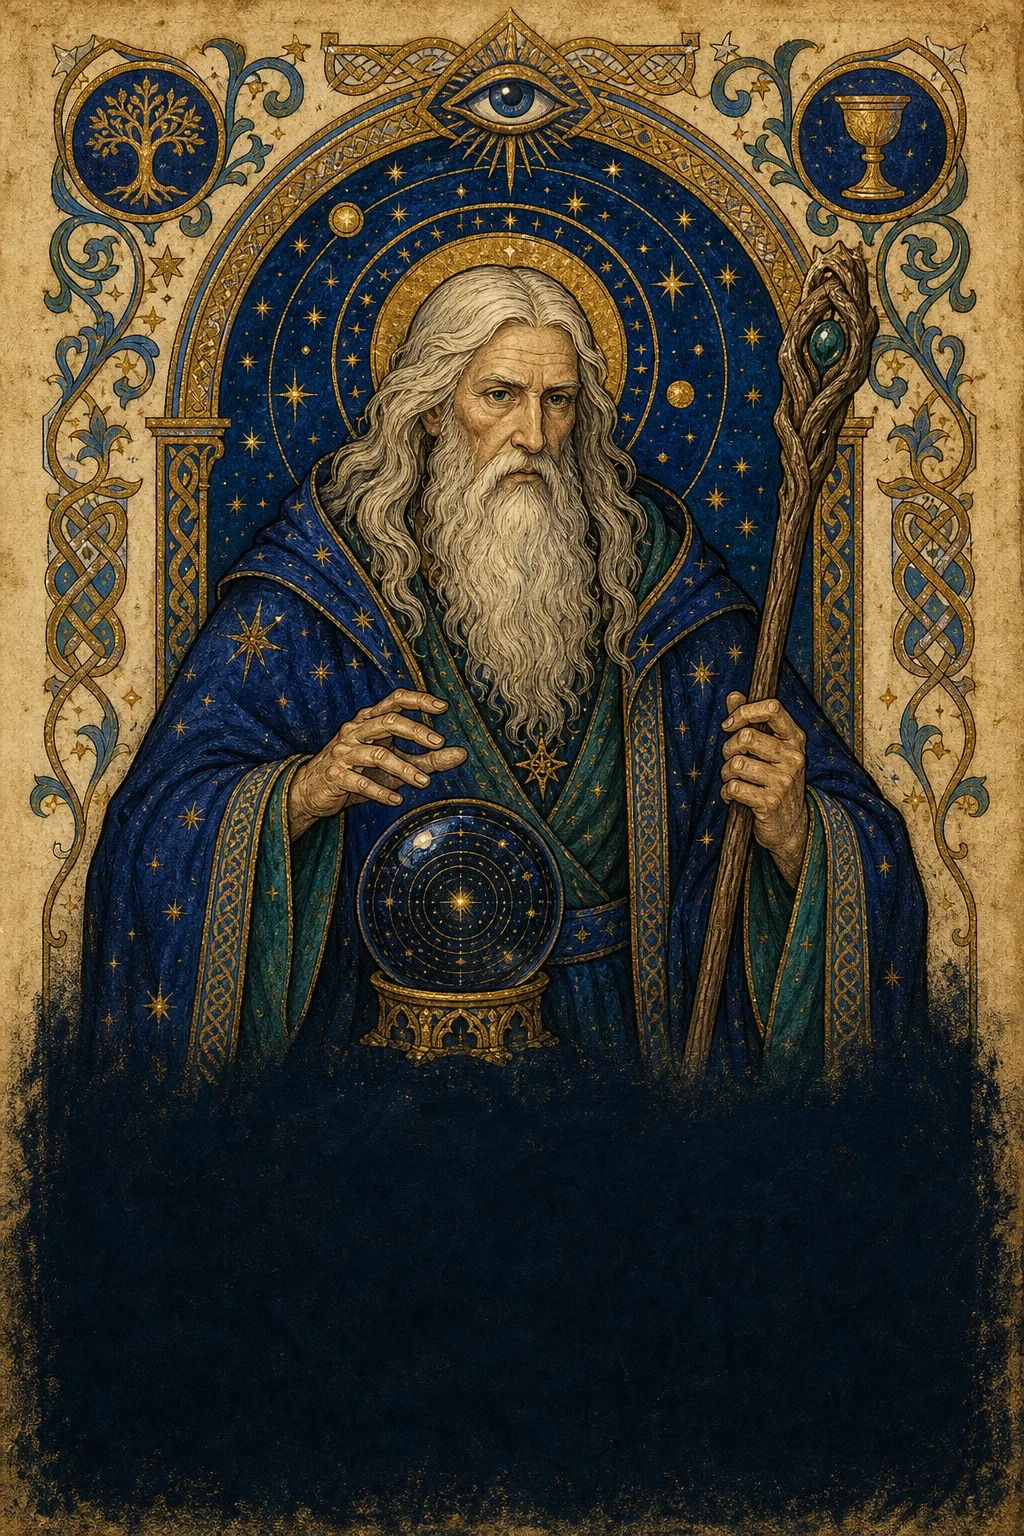
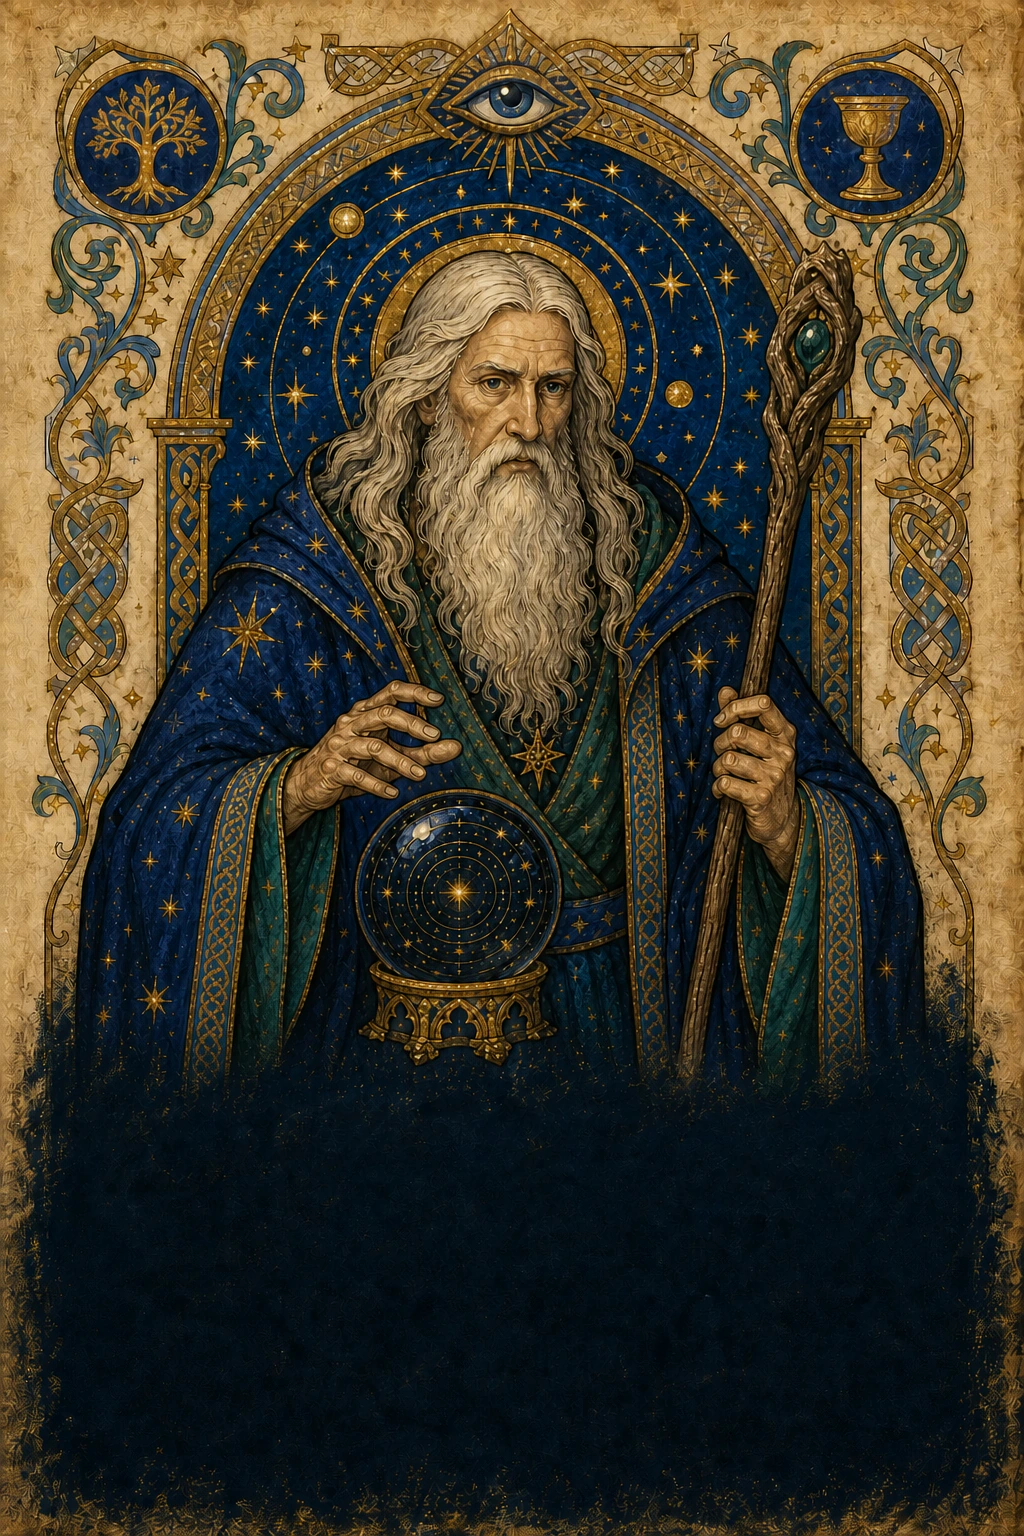
fix(avalon): normalize role artwork proportions

diff --git a/frontend/src/games/avalon/components/RoleSkinPicker.vue b/frontend/src/games/avalon/components/RoleSkinPicker.vue
@@ -136,6 +136,8 @@ onBeforeUnmount(() => window.removeEventListener('keydown', handleEscape))
             :data-alignment="role.alignment"
           >
             <img
+              class="role-skin-artwork"
+              :class="{ 'preserves-frame': role.framing.preserveFrame }"
               :src="role.artwork"
               :alt="`${previewSkin.name}中的${role.name}`"
               :style="{
@@ -143,6 +145,19 @@ onBeforeUnmount(() => window.removeEventListener('keydown', handleEscape))
                 '--role-art-hover-scale': role.framing.scale * 1.025,
                 '--role-art-origin': `${role.framing.originXPercent}% ${role.framing.originYPercent}%`,
               }"
+              draggable="false"
+            />
+            <img
+              v-if="role.framing.preserveFrame"
+              class="role-skin-inner-artwork"
+              :src="role.artwork"
+              :style="{
+                '--role-art-scale': role.framing.scale,
+                '--role-art-hover-scale': role.framing.scale * 1.025,
+                '--role-art-origin': `${role.framing.originXPercent}% ${role.framing.originYPercent}%`,
+              }"
+              alt=""
+              aria-hidden="true"
               draggable="false"
             />
             <div class="role-skin-identity">
@@ -535,22 +550,66 @@ onBeforeUnmount(() => window.removeEventListener('keydown', handleEscape))
     0 0 23px rgba(114, 151, 255, 0.08);
 }
 
-.role-skin-portrait img {
+.role-skin-artwork,
+.role-skin-inner-artwork {
   width: 100%;
   height: 100%;
   object-fit: cover;
+  transition: filter 260ms ease;
+}
+
+.role-skin-artwork {
   transform: scale(var(--role-art-scale, 1));
   transform-origin: var(--role-art-origin, 50% 50%);
   transition: transform 260ms ease, filter 260ms ease;
 }
 
-.role-skin-portrait:hover img {
+.role-skin-artwork.preserves-frame {
+  transform: none;
+}
+
+.role-skin-inner-artwork {
+  position: absolute;
+  z-index: 1;
+  inset: 0;
+  pointer-events: none;
+  transform: scale(var(--role-art-scale, 1));
+  transform-origin: var(--role-art-origin, 50% 50%);
+  -webkit-mask-image: radial-gradient(
+    ellipse 38% 42% at 50% 42%,
+    #000 0 75%,
+    rgba(0, 0, 0, 0.76) 84%,
+    transparent 100%
+  );
+  mask-image: radial-gradient(
+    ellipse 38% 42% at 50% 42%,
+    #000 0 75%,
+    rgba(0, 0, 0, 0.76) 84%,
+    transparent 100%
+  );
+  transition: transform 260ms ease, filter 260ms ease;
+}
+
+.role-skin-portrait:hover .role-skin-artwork,
+.role-skin-portrait:hover .role-skin-inner-artwork {
   filter: brightness(1.06);
+}
+
+.role-skin-portrait:hover .role-skin-artwork {
+  transform: scale(var(--role-art-hover-scale, 1.025));
+}
+
+.role-skin-portrait:hover .role-skin-artwork.preserves-frame {
+  transform: none;
+}
+
+.role-skin-portrait:hover .role-skin-inner-artwork {
   transform: scale(var(--role-art-hover-scale, 1.025));
 }
 
 .role-skin-identity {
   position: absolute;
+  z-index: 2;
   inset: auto 0 0;
   display: grid;
   justify-items: center;

diff --git a/frontend/src/games/avalon/components/SecretCard.vue b/frontend/src/games/avalon/components/SecretCard.vue
@@ -75,6 +75,18 @@ function hide() {
         <img
           v-if="artwork"
           class="secret-card__art"
+          :class="{ 'preserves-frame': artworkFraming.preserveFrame }"
+          :src="artwork"
+          :style="{
+            '--role-art-scale': artworkFraming.scale,
+            '--role-art-origin': `${artworkFraming.originXPercent}% ${artworkFraming.originYPercent}%`,
+          }"
+          alt=""
+          aria-hidden="true"
+        />
+        <img
+          v-if="artwork && artworkFraming.preserveFrame"
+          class="secret-card__inner-art"
           :src="artwork"
           :style="{
             '--role-art-scale': artworkFraming.scale,
@@ -138,6 +150,7 @@ function hide() {
 }
 
 .secret-card__art,
+.secret-card__inner-art,
 .secret-card__shade {
   position: absolute;
   inset: 0;
@@ -150,6 +163,30 @@ function hide() {
   object-fit: cover;
   transform: scale(var(--role-art-scale, 1));
   transform-origin: var(--role-art-origin, 50% 50%);
+}
+
+.secret-card__art.preserves-frame {
+  transform: none;
+}
+
+.secret-card__inner-art {
+  z-index: 0;
+  object-fit: cover;
+  pointer-events: none;
+  transform: scale(var(--role-art-scale, 1));
+  transform-origin: var(--role-art-origin, 50% 50%);
+  -webkit-mask-image: radial-gradient(
+    ellipse 38% 42% at 50% 42%,
+    #000 0 75%,
+    rgba(0, 0, 0, 0.76) 84%,
+    transparent 100%
+  );
+  mask-image: radial-gradient(
+    ellipse 38% 42% at 50% 42%,
+    #000 0 75%,
+    rgba(0, 0, 0, 0.76) 84%,
+    transparent 100%
+  );
 }
 
 .secret-card__shade {

diff --git a/frontend/src/games/avalon/roleSkins.test.ts b/frontend/src/games/avalon/roleSkins.test.ts
@@ -4,13 +4,38 @@ import {
 } from './roleSkins'
 
 describe('Avalon role skin artwork framing', () => {
-  it('keeps the established ultimate-skin hero cards unchanged', () => {
+  it('brings the smaller classic Merlin portrait up to the base-set scale', () => {
+    expect(roleArtworkFraming('merlin', 'classic-tabletop')).toEqual({
+      scale: 1.1,
+      originXPercent: 50,
+      originYPercent: 36,
+    })
+    expect(roleArtworkFraming('percival', 'classic-tabletop').scale).toBe(1)
+  })
+
+  it('finishes the restrained royal-codex Merlin composition correction', () => {
+    expect(roleArtworkFraming('merlin', 'royal-codex')).toEqual({
+      scale: 1.16,
+      originXPercent: 50,
+      originYPercent: 50,
+      preserveFrame: true,
+    })
+    expect(roleArtworkFraming('percival', 'royal-codex').scale).toBe(1)
+  })
+
+  it('keeps the established ultimate heroes unchanged and corrects the oversized Assassin', () => {
     expect(roleArtworkFraming('merlin', 'grail-myth')).toEqual({
       scale: 1,
       originXPercent: 50,
       originYPercent: 50,
     })
-    expect(roleArtworkFraming('assassin', 'grail-myth').scale).toBe(1)
+    expect(roleArtworkFraming('percival', 'grail-myth').scale).toBe(1)
+    expect(roleArtworkFraming('loyal-servant', 'grail-myth').scale).toBe(1)
+    expect(roleArtworkFraming('assassin', 'grail-myth')).toEqual({
+      scale: 1.18,
+      originXPercent: 50,
+      originYPercent: 60,
+    })
   })
 
   it('brings the more distant ultimate-skin portraits closer', () => {

diff --git a/frontend/src/games/avalon/components/RoleSkinPicker.test.ts b/frontend/src/games/avalon/components/RoleSkinPicker.test.ts
@@ -41,10 +41,31 @@ describe('RoleSkinPicker', () => {
     expect(
       modal.get('[data-role="morgana"] img').attributes('style'),
     ).toContain('--role-art-scale: 1.1')
+    expect(
+      modal.get('[data-role="assassin"] img').attributes('style'),
+    ).toContain('--role-art-scale: 1.18')
 
     await modal.get('.role-skin-use-button').trigger('click')
 
     expect(wrapper.emitted('update:modelValue')).toEqual([['grail-myth']])
     expect(wrapper.find('.role-skin-modal').exists()).toBe(false)
+  })
+
+  it('keeps the royal-codex frame intact while scaling Merlin inside it', async () => {
+    const wrapper = mount(RoleSkinPicker, {
+      props: { modelValue: 'classic-tabletop' },
+      global: { stubs: { Teleport: true } },
+    })
+
+    await wrapper
+      .get('button[data-role-skin="royal-codex"]')
+      .trigger('click')
+
+    const merlin = wrapper.get('[data-role="merlin"]')
+    expect(merlin.find('.role-skin-artwork.preserves-frame').exists()).toBe(true)
+    expect(merlin.find('.role-skin-inner-artwork').exists()).toBe(true)
+    expect(
+      merlin.get('.role-skin-inner-artwork').attributes('style'),
+    ).toContain('--role-art-scale: 1.16')
   })
 })

diff --git a/frontend/src/games/avalon/roleSkins.ts b/frontend/src/games/avalon/roleSkins.ts
@@ -77,6 +77,7 @@ export interface RoleArtworkFraming {
   scale: number
   originXPercent: number
   originYPercent: number
+  preserveFrame?: boolean
 }
 
 export const ROLE_SKIN_STORAGE_KEY = 'avalon:role-skin'
@@ -188,7 +189,19 @@ const DEFAULT_ROLE_ARTWORK_FRAMING: RoleArtworkFraming = {
 const ROLE_ARTWORK_FRAMING: Partial<
   Record<RoleSkinId, Partial<Record<AvalonRoleCode, RoleArtworkFraming>>>
 > = {
+  'classic-tabletop': {
+    merlin: { scale: 1.1, originXPercent: 50, originYPercent: 36 },
+  },
+  'royal-codex': {
+    merlin: {
+      scale: 1.16,
+      originXPercent: 50,
+      originYPercent: 50,
+      preserveFrame: true,
+    },
+  },
   'grail-myth': {
+    assassin: { scale: 1.18, originXPercent: 50, originYPercent: 60 },
     morgana: { scale: 1.1, originXPercent: 50, originYPercent: 29 },
     mordred: { scale: 1.1, originXPercent: 50, originYPercent: 27 },
     oberon: { scale: 1.08, originXPercent: 50, originYPercent: 28 },

diff --git a/frontend/src/games/avalon/components/SecretCard.test.ts b/frontend/src/games/avalon/components/SecretCard.test.ts
@@ -59,4 +59,22 @@ describe('SecretCard', () => {
     expect(artwork.attributes('style')).toContain('--role-art-scale: 1.1')
     expect(artwork.attributes('style')).toContain('--role-art-origin: 50% 29%')
   })
+
+  it('preserves an ornate card frame while correcting the inner artwork scale', async () => {
+    const wrapper = mount(SecretCard, {
+      props: {
+        title: '梅林',
+        subtitle: '亚瑟阵营',
+        roleCode: 'merlin',
+        roleSkin: 'royal-codex',
+      },
+    })
+
+    await wrapper.get('.secret-card').trigger('pointerdown')
+
+    expect(wrapper.get('.secret-card__art').attributes('style')).toContain(
+      '--role-art-scale: 1.16',
+    )
+    expect(wrapper.find('.secret-card__inner-art').exists()).toBe(true)
+  })
 })
